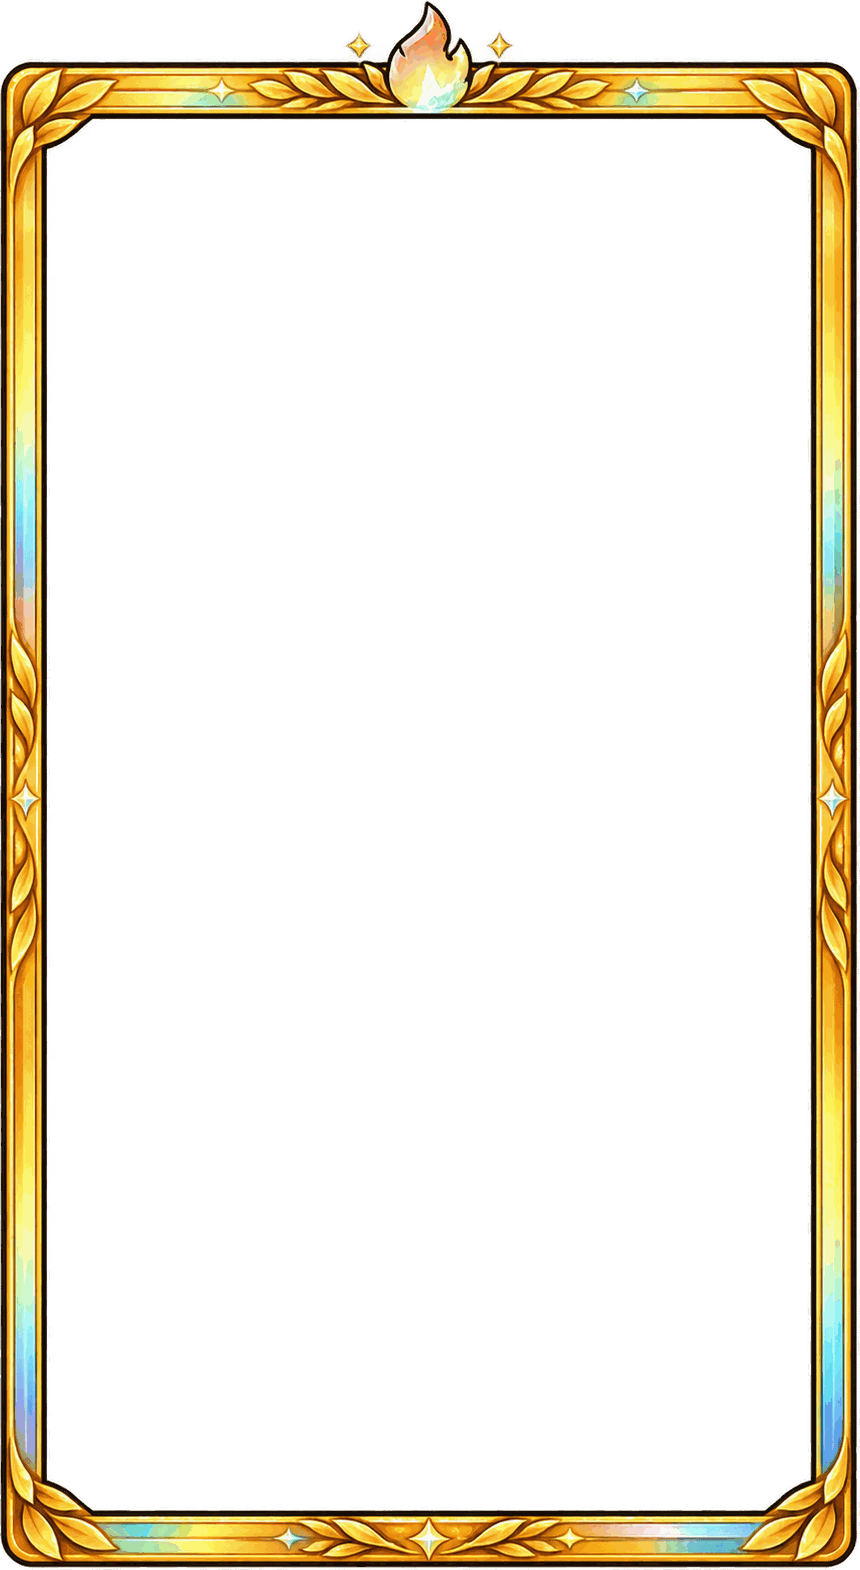
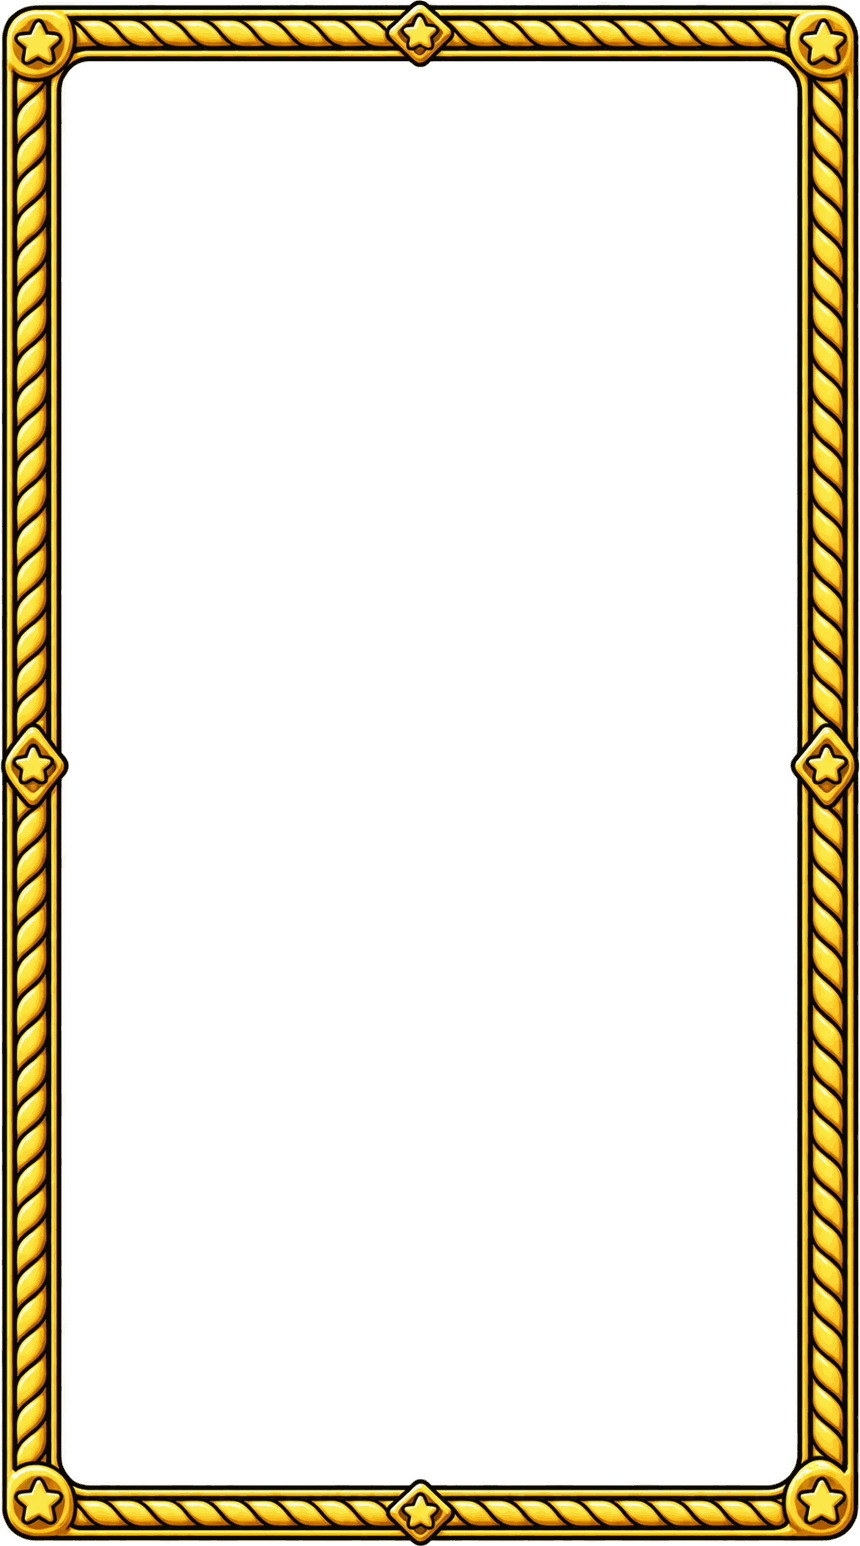
Crowd every rank, and unswap the gold and mythic map frames
The map frames for gold and mythic were each other's. gold.png was an
ornate iridescent laurel crowned with a flame; mythic.png was a plain
gold rope with stars. Checked against prismatic, the tier directly
below mythic, which is elaborate crystal — so the plain rope sat above
it and the flame sat six tiers down. The two files are swapped; nothing
in code referenced them by anything but tier name, so the filenames
were the whole of the bug.

Rank weights go from a steep pyramid to nearly flat. The pyramid was
the honest shape of a real population and the wrong shape here, because
the rank filter is a browsing surface: filtering to Mythic returned six
territories on an empty island, which reads as a broken filter rather
than a rare tier — the same failure the all-Wood world had, moved
further up. On the live map the top tiers went from 6-27 territories to
50-69.

The cost is real and is written down next to the weights: the tier a
player sits in now says less about how rare that is. That is the
owner's call and this is the side they picked.

Adds --rerank, which redeals standing across the bots already seeded
and touches nothing else. Retuning the weights otherwise means a
re-seed, and a full seed is an hour and a half against the real
database — far too much to pay for one column. One statement rather
than 384: per-row updates at ~190ms each is over a minute of latency
for work the database does in a single pass. 384 bots in 22 seconds.

Changed region(s): [[0.0, 0.0, 1.0, 1.0]]

diff --git a/backend/seed_world.py b/backend/seed_world.py
@@ -362,6 +362,8 @@ def main() -> int:
                     help="add clubs to an existing seeded world instead of refusing")
     ap.add_argument("--check", action="store_true",
                     help="connect, report what is there, change nothing")
+    ap.add_argument("--rerank", action="store_true",
+                    help="redeal rank points across existing bots, nothing else")
     args = ap.parse_args()
 
     n_clans = max(1, args.clans)
@@ -369,6 +371,61 @@ def main() -> int:
 
     db_url = os.environ.get("DATABASE_URL", "")
     host = db_url.split("@")[-1].split("/")[0] if "@" in db_url else "(default local)"
+
+    if args.rerank:
+        # Redeal standing over the bots already in the world.
+        #
+        # Retuning _TIER_WEIGHTS otherwise means re-seeding, and a full seed
+        # is an hour and a half against the real database — far too much to
+        # pay for a number that lives in one column. Nothing else is touched:
+        # same accounts, same clubs, same runs, same territory.
+        #
+        # One statement rather than 384. Per-row updates at ~190ms each is
+        # over a minute of pure latency for work the database can do in a
+        # single pass.
+        rng = random.Random(args.seed)
+        db = SessionLocal()
+        try:
+            ids = [r[0] for r in db.execute(
+                text("SELECT id::text FROM users WHERE is_bot")).fetchall()]
+            if not ids:
+                print("no bot accounts to rerank.")
+                return 0
+            pts = bot_world.rank_points_pyramid(rng, len(ids))
+            from app.ranks import rank_for_points
+            tiers = [rank_for_points(p)["tier"] for p in pts]
+            ages = [rng.uniform(0, 200) for _ in ids]
+            db.execute(
+                text(
+                    """
+                    UPDATE users u
+                    SET rank_points = d.pts,
+                        rank_points_at = timezone('utc', now())
+                                         - make_interval(secs => d.age * 3600),
+                        rank_best = GREATEST(COALESCE(u.rank_best, 0), d.tier)
+                    FROM (
+                        SELECT unnest(CAST(:ids AS uuid[]))  AS id,
+                               unnest(CAST(:pts AS int[]))   AS pts,
+                               unnest(CAST(:tiers AS int[])) AS tier,
+                               unnest(CAST(:ages AS float[])) AS age
+                    ) d
+                    WHERE u.id = d.id
+                    """
+                ),
+                {"ids": ids, "pts": pts, "tiers": tiers, "ages": ages},
+            )
+            db.commit()
+            import collections
+            spread = collections.Counter(rank_for_points(p)["label"] for p in pts)
+            print(f"reranked {len(ids)} bots into: {host}\n")
+            for _need, _key, label in __import__("app.ranks", fromlist=["x"]).RANK_TIERS:
+                print(f"   {label:<10} {spread.get(label, 0)}")
+            return 0
+        except Exception:
+            db.rollback()
+            raise
+        finally:
+            db.close()
 
     if args.check:
         # Read-only preflight. `--reset` against the wrong DATABASE_URL is the

diff --git a/backend/bot_world.py b/backend/bot_world.py
@@ -568,11 +568,22 @@ def recent_run_times(rng: random.Random, count: int, now: Optional[datetime] = N
 # returned an empty map and read as a broken feature rather than an empty
 # bracket. Every tier now has residents.
 #
-# Shaped as a pyramid rather than spread evenly, because a ladder where the
-# top tier is as crowded as the bottom is not a ladder. The weights below put
-# most of the roster in Wood through Silver and leave Mythic to a couple of
-# accounts, which is also what makes reaching Gold feel like anything.
-_TIER_WEIGHTS = [26, 22, 17, 12, 8, 6, 4, 3, 1.5, 0.5]
+# Nearly flat, on purpose, and NOT the shape a live ladder settles into.
+#
+# The first cut was a steep pyramid: 26 down to 0.5, most of the roster in
+# Wood through Silver, Mythic left to a couple of accounts. That is what a
+# real population looks like, and on this map it was a mistake, because the
+# rank filter is a BROWSING surface. Filter to Mythic on a steep pyramid and
+# you get six territories on an empty island — indistinguishable from a
+# broken filter, which is the same failure the all-Wood world had, just
+# further up.
+#
+# So every tier is populated enough to look like somewhere people run. The
+# cost is real and worth naming: the tier a player is in stops telling them
+# much about how rare that is, because the world's shape no longer reflects
+# scarcity. That trade is the owner's call and this is the side they picked.
+# Steepen these back toward the old curve if the top tiers should feel thin.
+_TIER_WEIGHTS = [12, 12, 11, 11, 10, 10, 9, 9, 8, 8]
 
 
 def rank_points_pyramid(rng: random.Random, count: int) -> List[int]:
